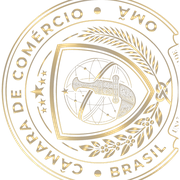
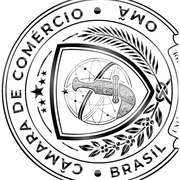
Tema off-white (claro) com rodape preto e linha dourada
- Fundo do site em off-white/creme, texto escuro, dourado escurecido p/
  legibilidade; header claro translucido; selo do hero mais visivel.
- Rodape permanece preto com linha de separacao dourada fina (cores fixas
  --footer-*, independentes do tema).
- Hero so renderiza video/overlay quando NEXT_PUBLIC_HERO_VIDEO definido
  (evita mancha escura no fundo claro).

diff --git a/src/app/globals.css b/src/app/globals.css
@@ -6,21 +6,32 @@
    ============================================================ */
 
 :root {
-  --bg: #0a0a0b;
-  --bg-2: #101012;
-  --bg-3: #16161a;
-  --surface: #131316;
-  --border: rgba(201, 162, 90, 0.18);
-  --border-strong: rgba(201, 162, 90, 0.35);
+  /* Tema claro (off-white neutro) */
+  --bg: #f8f8f6;
+  --bg-2: #f2f2f0;
+  --bg-3: #ebebea;
+  --surface: #fefefe;
+  --border: rgba(150, 116, 52, 0.22);
+  --border-strong: rgba(150, 116, 52, 0.42);
 
-  --gold: #c9a25a;
-  --gold-bright: #e6c976;
-  --gold-light: #f0e2b8;
-  --gold-deep: #9a7736;
+  --gold: #96712c;
+  --gold-bright: #c19a4b;
+  --gold-light: #6f5320;
+  --gold-deep: #5c4418;
 
-  --fg: #f4f1ea;
-  --fg-muted: #b7b2a6;
-  --fg-dim: #8a857a;
+  --fg: #201b13;
+  --fg-muted: #574f40;
+  --fg-dim: #857c6b;
+
+  /* Cores fixas do rodapé escuro (independentes do tema) */
+  --footer-bg: #0a0a0b;
+  --footer-fg: #f4f1ea;
+  --footer-muted: #b7b2a6;
+  --footer-dim: #8a857a;
+  --footer-gold: #c9a25a;
+  --footer-gold-light: #f0e2b8;
+  --footer-border: rgba(201, 162, 90, 0.18);
+  --footer-border-strong: rgba(201, 162, 90, 0.35);
 
   --maxw: 1180px;
 
@@ -105,12 +116,12 @@ h1, h2, h3 { font-family: var(--font-display); font-weight: 700; line-height: 1.
 /* ---------- header ---------- */
 .site-header {
   position: sticky; top: 0; z-index: 50;
-  background: rgba(10,10,11,0.78); backdrop-filter: blur(12px);
+  background: rgba(248,248,246,0.88); backdrop-filter: blur(12px);
   border-bottom: 1px solid var(--border);
 }
 .header-inner { display: flex; align-items: center; justify-content: space-between; height: 76px; }
 .brand { display: flex; align-items: center; gap: 14px; }
-.brand-logo { width: 46px; height: 46px; border-radius: 50%; }
+.brand-logo { width: 40px; height: 40px; object-fit: contain; mix-blend-mode: multiply; }
 .brand-text { display: flex; flex-direction: column; line-height: 1.1; }
 .brand-text strong { font-family: var(--font-display); font-size: 1.15rem; letter-spacing: 0.14em; color: var(--gold-light); }
 .brand-text small { font-size: 0.62rem; letter-spacing: 0.22em; text-transform: uppercase; color: var(--fg-dim); }
@@ -145,8 +156,8 @@ h1, h2, h3 { font-family: var(--font-display); font-weight: 700; line-height: 1.
 }
 .hero-seal {
   position: absolute; right: -120px; top: 50%; transform: translateY(-50%);
-  width: 620px; max-width: 60vw; opacity: 0.16; pointer-events: none;
-  filter: drop-shadow(0 0 40px rgba(201,162,90,0.3));
+  width: 620px; max-width: 60vw; opacity: 0.38; pointer-events: none;
+  filter: drop-shadow(0 0 30px rgba(150,116,52,0.25));
   z-index: 1;
 }
 .hero-inner { max-width: 820px; position: relative; z-index: 2; }
@@ -245,17 +256,17 @@ h1, h2, h3 { font-family: var(--font-display); font-weight: 700; line-height: 1.
 .form-note.ok { color: #7bd88f; }
 .form-note.err { color: #e57373; }
 
-/* footer */
-.site-footer { border-top: 1px solid var(--border); background: var(--bg-2); padding: 56px 0 32px; position: relative; z-index: 1; }
+/* footer — sempre escuro (preto) com linha dourada fina */
+.site-footer { border-top: 1px solid var(--footer-border-strong); background: var(--footer-bg); color: var(--footer-fg); padding: 56px 0 32px; position: relative; z-index: 1; }
 .footer-inner { display: grid; grid-template-columns: 1.4fr 1fr 1fr; gap: 40px; align-items: start; }
 .footer-brand { display: flex; gap: 14px; align-items: center; }
 .footer-brand img { width: 52px; height: 52px; }
-.footer-brand strong { font-family: var(--font-display); letter-spacing: 0.14em; color: var(--gold-light); display: block; }
-.footer-brand p { color: var(--fg-dim); font-size: 0.82rem; margin: 2px 0 0; }
-.footer-col h4 { color: var(--gold); font-size: 0.78rem; text-transform: uppercase; letter-spacing: 0.16em; margin: 0 0 16px; }
-.footer-col a, .footer-col p { display: block; color: var(--fg-muted); font-size: 0.9rem; margin-bottom: 10px; }
-.footer-col a:hover { color: var(--gold-light); }
-.footer-bottom { border-top: 1px solid var(--border); margin-top: 40px; padding-top: 24px; display: flex; justify-content: space-between; flex-wrap: wrap; gap: 12px; color: var(--fg-dim); font-size: 0.8rem; }
+.footer-brand strong { font-family: var(--font-display); letter-spacing: 0.14em; color: var(--footer-gold-light); display: block; }
+.footer-brand p { color: var(--footer-dim); font-size: 0.82rem; margin: 2px 0 0; }
+.footer-col h4 { color: var(--footer-gold); font-size: 0.78rem; text-transform: uppercase; letter-spacing: 0.16em; margin: 0 0 16px; }
+.footer-col a, .footer-col p { display: block; color: var(--footer-muted); font-size: 0.9rem; margin-bottom: 10px; }
+.footer-col a:hover { color: var(--footer-gold-light); }
+.footer-bottom { border-top: 1px solid var(--footer-border); margin-top: 40px; padding-top: 24px; display: flex; justify-content: space-between; flex-wrap: wrap; gap: 12px; color: var(--footer-dim); font-size: 0.8rem; }
 
 /* reveal animation */
 .reveal { opacity: 0; transform: translateY(24px); transition: opacity 0.7s ease, transform 0.7s ease; }

diff --git a/src/components/Sections.tsx b/src/components/Sections.tsx
@@ -3,29 +3,31 @@
 import Image from "next/image";
 import { useI18n } from "@/lib/i18n";
 
-// URL do vídeo institucional. Em produção, apontar para um CDN/S3
-// via NEXT_PUBLIC_HERO_VIDEO; em dev usa o arquivo local em /public.
-const HERO_VIDEO = process.env.NEXT_PUBLIC_HERO_VIDEO || "/institucional.mp4";
+// URL do vídeo institucional de fundo do hero. Só é exibido quando
+// NEXT_PUBLIC_HERO_VIDEO estiver definido (CDN/S3 em produção, ou o
+// caminho local /institucional.mp4 em desenvolvimento). Vazio = sem vídeo.
+const HERO_VIDEO = process.env.NEXT_PUBLIC_HERO_VIDEO || "";
 
 export function Hero() {
   const { d } = useI18n();
   return (
     <section className="hero" id="top">
       {HERO_VIDEO ? (
-        <video
-          className="hero-video"
-          autoPlay
-          muted
-          loop
-          playsInline
-          preload="metadata"
-          poster="/logo-ctb.png"
-          aria-hidden="true"
-        >
-          <source src={HERO_VIDEO} type="video/mp4" />
-        </video>
+        <>
+          <video
+            className="hero-video"
+            autoPlay
+            muted
+            loop
+            playsInline
+            preload="metadata"
+            aria-hidden="true"
+          >
+            <source src={HERO_VIDEO} type="video/mp4" />
+          </video>
+          <div className="hero-overlay" aria-hidden="true" />
+        </>
       ) : null}
-      <div className="hero-overlay" aria-hidden="true" />
       <Image
         className="hero-seal"
         src="/logo-ctb-transparent.png"

diff --git a/src/components/Footer.tsx b/src/components/Footer.tsx
@@ -31,7 +31,7 @@ export default function Footer() {
                 <p>{d.footer.tagline}</p>
               </div>
             </div>
-            <p style={{ color: "var(--fg-dim)", fontSize: "0.88rem", marginTop: 18, maxWidth: 320 }}>
+            <p style={{ color: "var(--footer-muted)", fontSize: "0.88rem", marginTop: 18, maxWidth: 320 }}>
               {d.footer.about}
             </p>
           </div>
